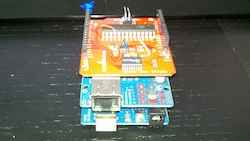
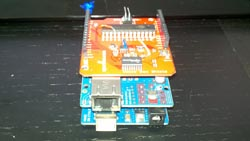
thumbnails for homepage images

diff --git a/app/views/grievebot/index.html b/app/views/grievebot/index.html
@@ -109,21 +109,21 @@
 				<br />
 				<a href="/assets/connectors_on_speakjet.jpg" class="highslide" onclick="return hs.expand(this, { src: '/assets/connectors_on_speakjet.jpg', wrapperClassName: 'colored-border', outlineType: null, align: 'center'})"><img id="thumb6" src="/assets/connectors_on_speakjet_250.jpg"/></a>
 				<br />
-				<a href="/assets/head_front.jpg" class="highslide" onclick="return hs.expand(this, { src: '/assets/head_front.jpg', wrapperClassName: 'colored-border', outlineType: null, align: 'center'})"><img id="thumb6" src="/assets/head_front.jpg"/></a>
+				<a href="/assets/head_front.jpg" class="highslide" onclick="return hs.expand(this, { src: '/assets/head_front.jpg', wrapperClassName: 'colored-border', outlineType: null, align: 'center'})"><img id="thumb6" src="/assets/head_front_250.jpg"/></a>
 				<br />
-				<a href="/assets/head_side.jpg" class="highslide" onclick="return hs.expand(this, { src: '/assets/head_side.jpg', wrapperClassName: 'colored-border', outlineType: null, align: 'center'})"><img id="thumb6" src="/assets/head_side.jpg"/></a>
+				<a href="/assets/head_side.jpg" class="highslide" onclick="return hs.expand(this, { src: '/assets/head_side.jpg', wrapperClassName: 'colored-border', outlineType: null, align: 'center'})"><img id="thumb6" src="/assets/head_side_250.jpg"/></a>
 				<br />
-				<a href="/assets/head_inside.jpg" class="highslide" onclick="return hs.expand(this, { src: '/assets/head_inside.jpg', wrapperClassName: 'colored-border', outlineType: null, align: 'center'})"><img id="thumb6" src="/assets/head_inside.jpg"/></a>
+				<a href="/assets/head_inside.jpg" class="highslide" onclick="return hs.expand(this, { src: '/assets/head_inside.jpg', wrapperClassName: 'colored-border', outlineType: null, align: 'center'})"><img id="thumb6" src="/assets/head_inside_250.jpg"/></a>
 				<br />
-				<a href="/assets/head_on_stand.jpg" class="highslide" onclick="return hs.expand(this, { src: '/assets/head_on_stand.jpg', wrapperClassName: 'colored-border', outlineType: null, align: 'center'})"><img id="thumb6" src="/assets/head_on_stand.jpg"/></a>
+				<a href="/assets/head_on_stand.jpg" class="highslide" onclick="return hs.expand(this, { src: '/assets/head_on_stand.jpg', wrapperClassName: 'colored-border', outlineType: null, align: 'center'})"><img id="thumb6" src="/assets/head_on_stand_250.jpg"/></a>
 				<br />
-				<a href="/assets/servo_for_head_rotation.jpg" class="highslide" onclick="return hs.expand(this, { src: '/assets/servo_for_head_rotation.jpg', wrapperClassName: 'colored-border', outlineType: null, align: 'center'})"><img id="thumb6" src="/assets/servo_for_head_rotation.jpg"/></a>
+				<a href="/assets/servo_for_head_rotation.jpg" class="highslide" onclick="return hs.expand(this, { src: '/assets/servo_for_head_rotation.jpg', wrapperClassName: 'colored-border', outlineType: null, align: 'center'})"><img id="thumb6" src="/assets/servo_for_head_rotation_250.jpg"/></a>
 				<br />
-				<a href="/assets/head_gear_2.jpg" class="highslide" onclick="return hs.expand(this, { src: '/assets/head_gear_2.jpg', wrapperClassName: 'colored-border', outlineType: null, align: 'center'})"><img id="thumb6" src="/assets/head_gear_2.jpg"/></a>
+				<a href="/assets/head_gear_2.jpg" class="highslide" onclick="return hs.expand(this, { src: '/assets/head_gear_2.jpg', wrapperClassName: 'colored-border', outlineType: null, align: 'center'})"><img id="thumb6" src="/assets/head_gear_2_250.jpg"/></a>
 				<br />
-				<a href="/assets/head_gear.jpg" class="highslide" onclick="return hs.expand(this, { src: '/assets/head_gear.jpg', wrapperClassName: 'colored-border', outlineType: null, align: 'center'})"><img id="thumb6" src="/assets/head_gear.jpg"/></a>
+				<a href="/assets/head_gear.jpg" class="highslide" onclick="return hs.expand(this, { src: '/assets/head_gear.jpg', wrapperClassName: 'colored-border', outlineType: null, align: 'center'})"><img id="thumb6" src="/assets/head_gear_250.jpg"/></a>
 				<br />
-				<a href="/assets/final_arduino_stack.jpg" class="highslide" onclick="return hs.expand(this, { src: '/assets/final_arduino_stack.jpg', wrapperClassName: 'colored-border', outlineType: null, align: 'center'})"><img id="thumb6" src="/assets/final_arduino_stack.jpg"/></a>
+				<a href="/assets/final_arduino_stack.jpg" class="highslide" onclick="return hs.expand(this, { src: '/assets/final_arduino_stack.jpg', wrapperClassName: 'colored-border', outlineType: null, align: 'center'})"><img id="thumb6" src="/assets/final_arduino_stack_250.jpg"/></a>
 				<br />
 			</p>
 		</div>
